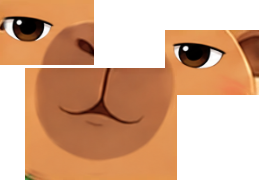
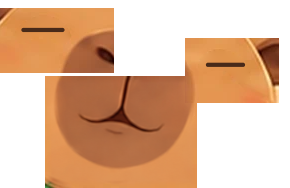
카피바라 기본 눈을 눈동자 없는 일자 선으로 수정

diff --git a/hero-eyes.js b/hero-eyes.js
@@ -1,1 +1,1 @@
-(()=>{'use strict';const VERSION='hero-expressions-v2-1793146003066',SW=3344,SH=1320,root=document.currentScript?.src||location.href;function url(n){return new URL(n+'?v='+VERSION,root).href;}async function boot(){const im=document.querySelector('.hero-art'),hero=im?.parentElement,home=document.getElementById('home-screen');if(!im||!hero)return;window.BKSHeroEyes?.destroy?.();const layer=document.createElement('div');layer.className='bks-hero-eyes';layer.setAttribute('aria-hidden','true');layer.style.cssText='position:absolute;left:0;top:0;pointer-events:none;z-index:2;overflow:hidden';const specs=[['children',[1150,485,1114,144],url('hero-eyes-children.png')],['open',[1716,991,78,64],url('hero-white-open.png')],['cat',[1848,875,238,72],url('hero-cat-blink.png')],['wink',[1716,991,78,64],url('hero-white-wink.png')],['black',[1366,956,75,72],url('hero-black-wink.png')],['capyBase',[1485,708,259,180],url('hero-capy-neutral.png')],['capySmile',[1485,708,259,180],url('hero-capy-smile.png')]],images={};try{await Promise.all(specs.map(async([n,b,src])=>{const a=new Image();a.alt='';a.setAttribute('aria-hidden','true');a.draggable=false;a.style.cssText='left:'+b[0]/SW*100+'%;top:'+b[1]/SH*100+'%;width:'+b[2]/SW*100+'%;height:'+b[3]/SH*100+'%;';if(n==='cat')a.className='bks-cat-blink';if(n==='wink')a.className='bks-white-wink';if(n==='black')a.className='bks-black-wink';if(n==='capySmile')a.className='bks-capy-smile';await new Promise((resolve,reject)=>{a.onload=resolve;a.onerror=()=>reject(Error('Eye asset failed: '+n));a.src=src;});images[n]=a;}));if(!im.complete)await new Promise(r=>im.addEventListener('load',r,{once:true}));for(const[n]of specs)layer.append(images[n]);hero.append(layer);let visible=true,disposed=false,paused=true,raf=0,elapsed=0,last=0;const reduce=matchMedia('(prefers-reduced-motion: reduce)');function pulse(t,p,start,close,hold,open){const x=t%p-start;if(x<0||x>close+hold+open)return 0;if(x<close)return .5-.5*Math.cos(Math.PI*x/close);if(x<close+hold)return 1;return .5+.5*Math.cos(Math.PI*(x-close-hold)/open);}function tick(){if(disposed||paused)return;const now=performance.now();elapsed+=(now-last)/1000;last=now;images.cat.style.opacity=pulse(elapsed,5.8,1.1,.1,.32,.16);images.wink.style.opacity=pulse(elapsed,7.4,2.6,.1,1.2,.18);images.black.style.opacity=pulse(elapsed,7.8,1.5,.12,1.2,.18);images.capySmile.style.opacity=pulse(elapsed,9.2,4.1,.16,1.8,.22);raf=setTimeout(tick,40);}function sync(){if(disposed)return;layer.style.left=im.offsetLeft+'px';layer.style.top=im.offsetTop+'px';const rect=im.getBoundingClientRect();layer.style.width=rect.width+'px';layer.style.height=rect.height+'px';const off=document.hidden||!visible||!!home?.hidden||reduce.matches;paused=off;if(off){clearTimeout(raf);raf=0;if(reduce.matches){images.cat.style.opacity=0;images.wink.style.opacity=0;images.black.style.opacity=0;images.capySmile.style.opacity=0;}}else if(!raf){last=performance.now();raf=setTimeout(tick,40);}}const ro=new ResizeObserver(sync);ro.observe(im);const io=new IntersectionObserver(e=>{visible=e[0].isIntersecting;sync();},{threshold:0});io.observe(im);const mo=new MutationObserver(sync);if(home)mo.observe(home,{attributes:true,attributeFilter:['hidden','class','style']});document.addEventListener('visibilitychange',sync);reduce.addEventListener('change',sync);sync();window.BKSHeroEyes={version:VERSION,status:()=>({version:VERSION,ready:true,childrenEyeScale:.85,catPeriod:5.8,winkPeriod:7.4,winkHold:1.2,blackPeriod:7.8,blackHold:1.2,capyPeriod:9.2,capySmileHold:1.8,catOpacity:+getComputedStyle(images.cat).opacity,winkOpacity:+getComputedStyle(images.wink).opacity,blackOpacity:+getComputedStyle(images.black).opacity,capySmileOpacity:+getComputedStyle(images.capySmile).opacity,reduced:reduce.matches,visible,paused,elapsed,imageSize:[im.clientWidth,im.clientHeight],error:''}),destroy(){disposed=true;clearTimeout(raf);ro.disconnect();io.disconnect();mo.disconnect();document.removeEventListener('visibilitychange',sync);reduce.removeEventListener('change',sync);layer.remove();}};}catch(e){layer.remove();window.BKSHeroEyes={version:VERSION,status:()=>({ready:false,error:String(e.message)})};console.warn('[Hero eyes]',e);}}if(document.readyState==='loading')document.addEventListener('DOMContentLoaded',boot,{once:true});else boot();})();
+(()=>{'use strict';const VERSION='hero-capy-flat-1793146659100',SW=3344,SH=1320,root=document.currentScript?.src||location.href;function url(n){return new URL(n+'?v='+VERSION,root).href;}async function boot(){const im=document.querySelector('.hero-art'),hero=im?.parentElement,home=document.getElementById('home-screen');if(!im||!hero)return;window.BKSHeroEyes?.destroy?.();const layer=document.createElement('div');layer.className='bks-hero-eyes';layer.setAttribute('aria-hidden','true');layer.style.cssText='position:absolute;left:0;top:0;pointer-events:none;z-index:2;overflow:hidden';const specs=[['children',[1150,485,1114,144],url('hero-eyes-children.png')],['open',[1716,991,78,64],url('hero-white-open.png')],['cat',[1848,875,238,72],url('hero-cat-blink.png')],['wink',[1716,991,78,64],url('hero-white-wink.png')],['black',[1366,956,75,72],url('hero-black-wink.png')],['capyBase',[1465,700,290,188],url('hero-capy-neutral.png')],['capySmile',[1465,700,290,188],url('hero-capy-smile.png')]],images={};try{await Promise.all(specs.map(async([n,b,src])=>{const a=new Image();a.alt='';a.setAttribute('aria-hidden','true');a.draggable=false;a.style.cssText='left:'+b[0]/SW*100+'%;top:'+b[1]/SH*100+'%;width:'+b[2]/SW*100+'%;height:'+b[3]/SH*100+'%;';if(n==='cat')a.className='bks-cat-blink';if(n==='wink')a.className='bks-white-wink';if(n==='black')a.className='bks-black-wink';if(n==='capySmile')a.className='bks-capy-smile';await new Promise((resolve,reject)=>{a.onload=resolve;a.onerror=()=>reject(Error('Eye asset failed: '+n));a.src=src;});images[n]=a;}));if(!im.complete)await new Promise(r=>im.addEventListener('load',r,{once:true}));for(const[n]of specs)layer.append(images[n]);hero.append(layer);let visible=true,disposed=false,paused=true,raf=0,elapsed=0,last=0;const reduce=matchMedia('(prefers-reduced-motion: reduce)');function pulse(t,p,start,close,hold,open){const x=t%p-start;if(x<0||x>close+hold+open)return 0;if(x<close)return .5-.5*Math.cos(Math.PI*x/close);if(x<close+hold)return 1;return .5+.5*Math.cos(Math.PI*(x-close-hold)/open);}function tick(){if(disposed||paused)return;const now=performance.now();elapsed+=(now-last)/1000;last=now;images.cat.style.opacity=pulse(elapsed,5.8,1.1,.1,.32,.16);images.wink.style.opacity=pulse(elapsed,7.4,2.6,.1,1.2,.18);images.black.style.opacity=pulse(elapsed,7.8,1.5,.12,1.2,.18);images.capySmile.style.opacity=pulse(elapsed,9.2,4.1,.16,1.8,.22);raf=setTimeout(tick,40);}function sync(){if(disposed)return;layer.style.left=im.offsetLeft+'px';layer.style.top=im.offsetTop+'px';const rect=im.getBoundingClientRect();layer.style.width=rect.width+'px';layer.style.height=rect.height+'px';const off=document.hidden||!visible||!!home?.hidden||reduce.matches;paused=off;if(off){clearTimeout(raf);raf=0;if(reduce.matches){images.cat.style.opacity=0;images.wink.style.opacity=0;images.black.style.opacity=0;images.capySmile.style.opacity=0;}}else if(!raf){last=performance.now();raf=setTimeout(tick,40);}}const ro=new ResizeObserver(sync);ro.observe(im);const io=new IntersectionObserver(e=>{visible=e[0].isIntersecting;sync();},{threshold:0});io.observe(im);const mo=new MutationObserver(sync);if(home)mo.observe(home,{attributes:true,attributeFilter:['hidden','class','style']});document.addEventListener('visibilitychange',sync);reduce.addEventListener('change',sync);sync();window.BKSHeroEyes={version:VERSION,status:()=>({version:VERSION,ready:true,childrenEyeScale:.85,catPeriod:5.8,winkPeriod:7.4,winkHold:1.2,blackPeriod:7.8,blackHold:1.2,capyPeriod:9.2,capySmileHold:1.8,catOpacity:+getComputedStyle(images.cat).opacity,winkOpacity:+getComputedStyle(images.wink).opacity,blackOpacity:+getComputedStyle(images.black).opacity,capySmileOpacity:+getComputedStyle(images.capySmile).opacity,reduced:reduce.matches,visible,paused,elapsed,imageSize:[im.clientWidth,im.clientHeight],error:''}),destroy(){disposed=true;clearTimeout(raf);ro.disconnect();io.disconnect();mo.disconnect();document.removeEventListener('visibilitychange',sync);reduce.removeEventListener('change',sync);layer.remove();}};}catch(e){layer.remove();window.BKSHeroEyes={version:VERSION,status:()=>({ready:false,error:String(e.message)})};console.warn('[Hero eyes]',e);}}if(document.readyState==='loading')document.addEventListener('DOMContentLoaded',boot,{once:true});else boot();})();

diff --git a/index.html b/index.html
@@ -57,5 +57,5 @@
 </main>
 <footer class="site-footer"><div class="footer-inner"><div class="footer-brand"><a href="#home" aria-label="바둑스쿨 홈"><img src="assets/baduk_logo_final.png?v=static-68a173ca45abc653" alt="JH 바둑스쿨" width="1887" height="492"></a><p>아이들이 바둑으로 자라나는 곳</p><strong>badukschool.com</strong></div><nav class="footer-columns" aria-label="하단 메뉴"><div class="footer-column"><h2>바둑 대국</h2><ul><li><a href="#play">바둑 대국</a></li><li><a href="#bots">AI와 대국</a></li><li><a href="#live">실시간 대국</a></li><li><a href="#tournament">토너먼트</a></li></ul></div><div class="footer-column"><h2>배우기</h2><ul><li><a href="#lessons">강의</a></li><li><a href="#videos">영상</a></li><li><a href="#articles">읽을거리</a></li><li><a href="#review">기보 분석</a></li></ul></div><div class="footer-column"><h2>사활 문제</h2><ul><li><a href="#puzzles">오늘의 사활</a></li><li><a href="#duel">문제 대결</a></li><li><a href="#reading">수읽기 훈련</a></li><li><a href="#practice">AI 연습</a></li></ul></div><div class="footer-column"><h2>자료실</h2><ul><li><a href="#resources">바둑 자료</a></li><li><a href="#events">대회 일정</a></li><li><a href="#downloads">내려받기 자료</a></li><li><a href="#faq">자주 묻는 질문</a></li></ul></div><div class="footer-column"><h2>바둑스쿨</h2><ul><li><a href="#about">회사 소개</a></li><li><a href="#contact">문의하기</a></li><li><a href="#store">스토어</a></li><li><a href="#privacy">개인정보 · 약관</a></li></ul></div></nav></div><div class="footer-legal"><span>2026 © 바둑스쿨. All rights reserved.</span><span>바둑으로 더 밝은 내일을.</span></div></footer>
 <script src="js/hero_breath.js?v=1" defer></script>
-<script src="hero-eyes.js?v=hero-expressions-v2-1793146003066" defer></script>
+<script src="hero-eyes.js?v=hero-capy-flat-1793146659100" defer></script>
 </body></html>
